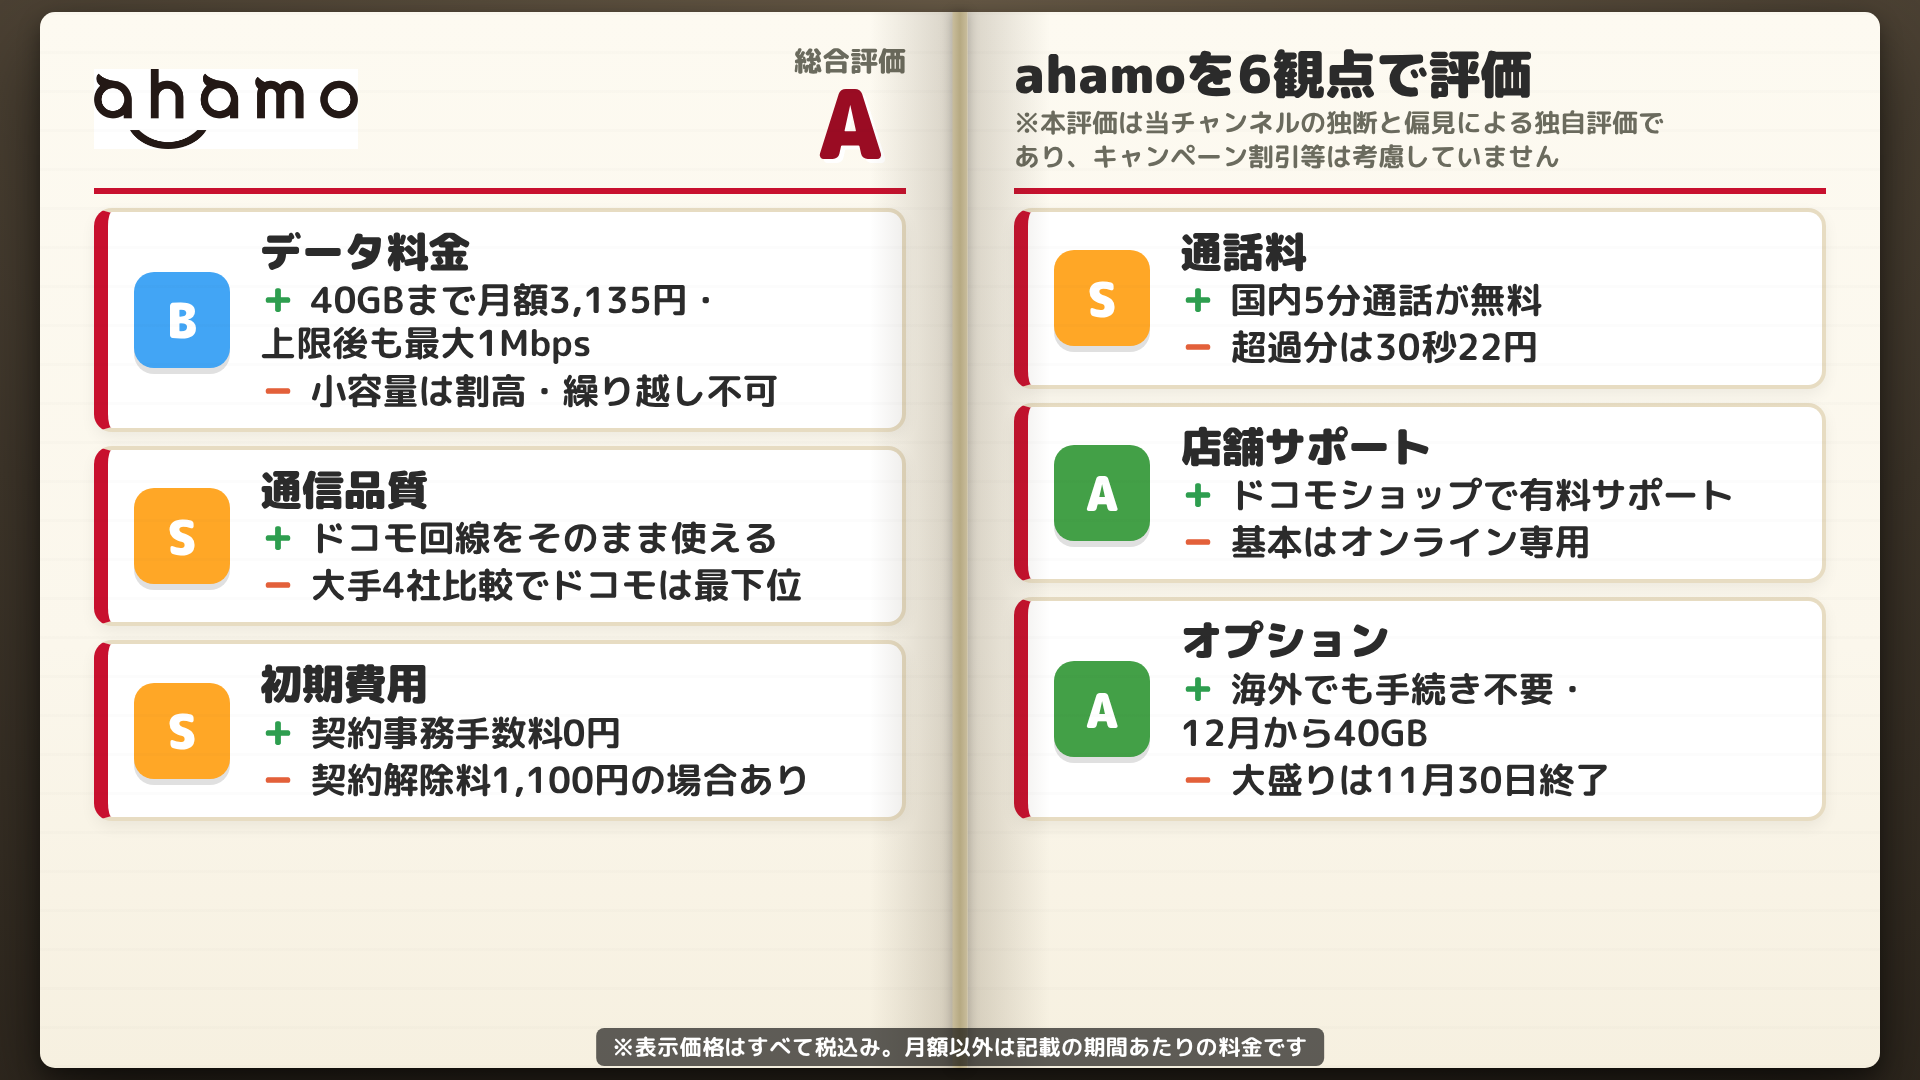
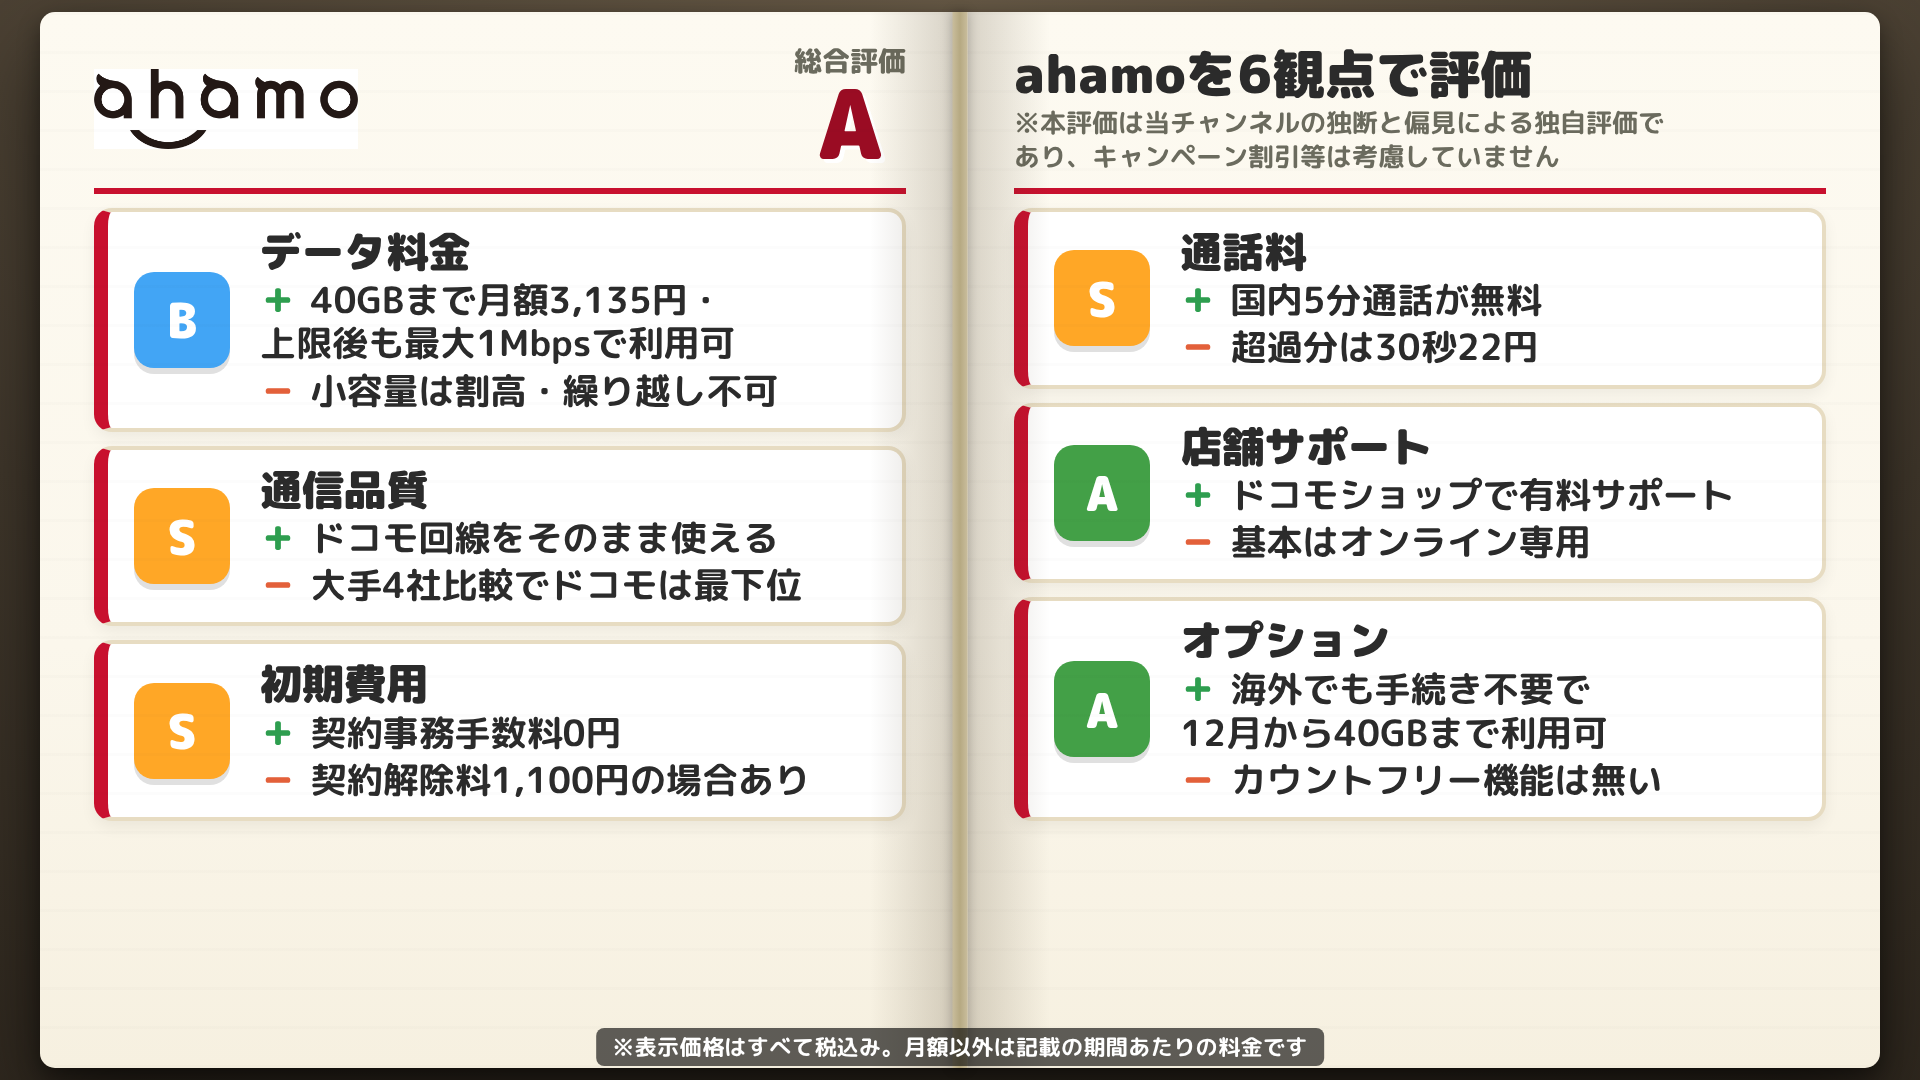
スライド改修

Changed region(s): [[0.625, 0.6111, 0.875, 0.7333], [0.3125, 0.3056, 0.4062, 0.3361]]

diff --git a/slides.html b/slides.html
@@ -640,9 +640,9 @@
               </div>
               <div
                 class="line con"
-                data-full="大盛りオプションは2026年11月30日で終了"
+                data-full="SNSや動画のデータ消費をカウントしない（カウントフリー）機能は無い"
               >
-                <span class="tag">－</span>大盛りは11月30日終了
+                <span class="tag">－</span>カウントフリー機能は無い
               </div>
             </div>
           </div>
